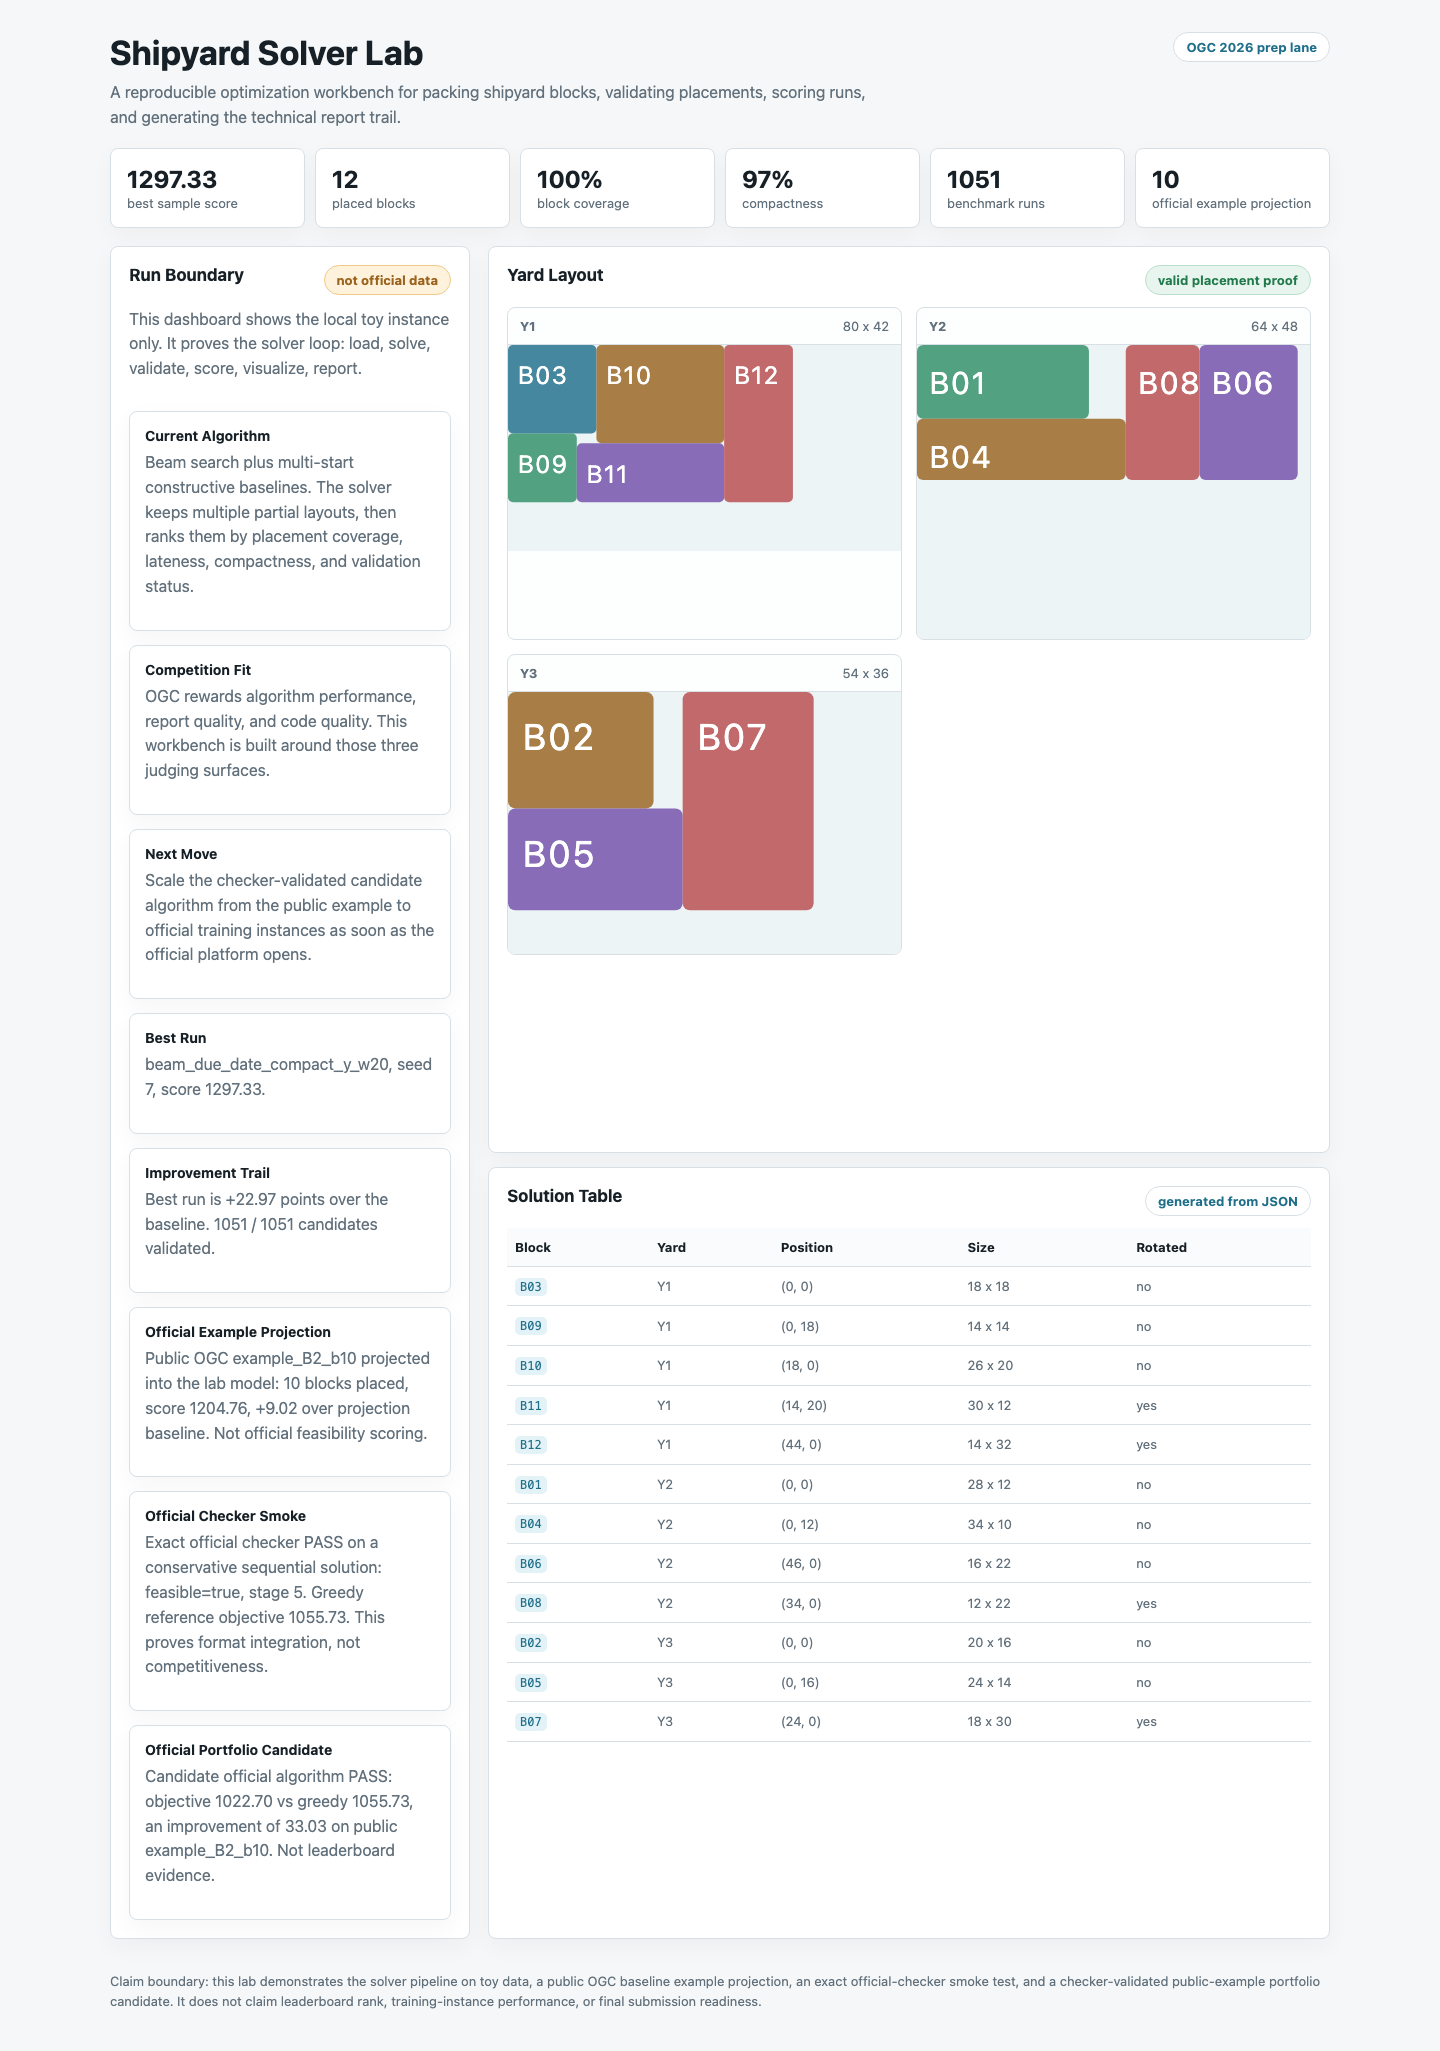
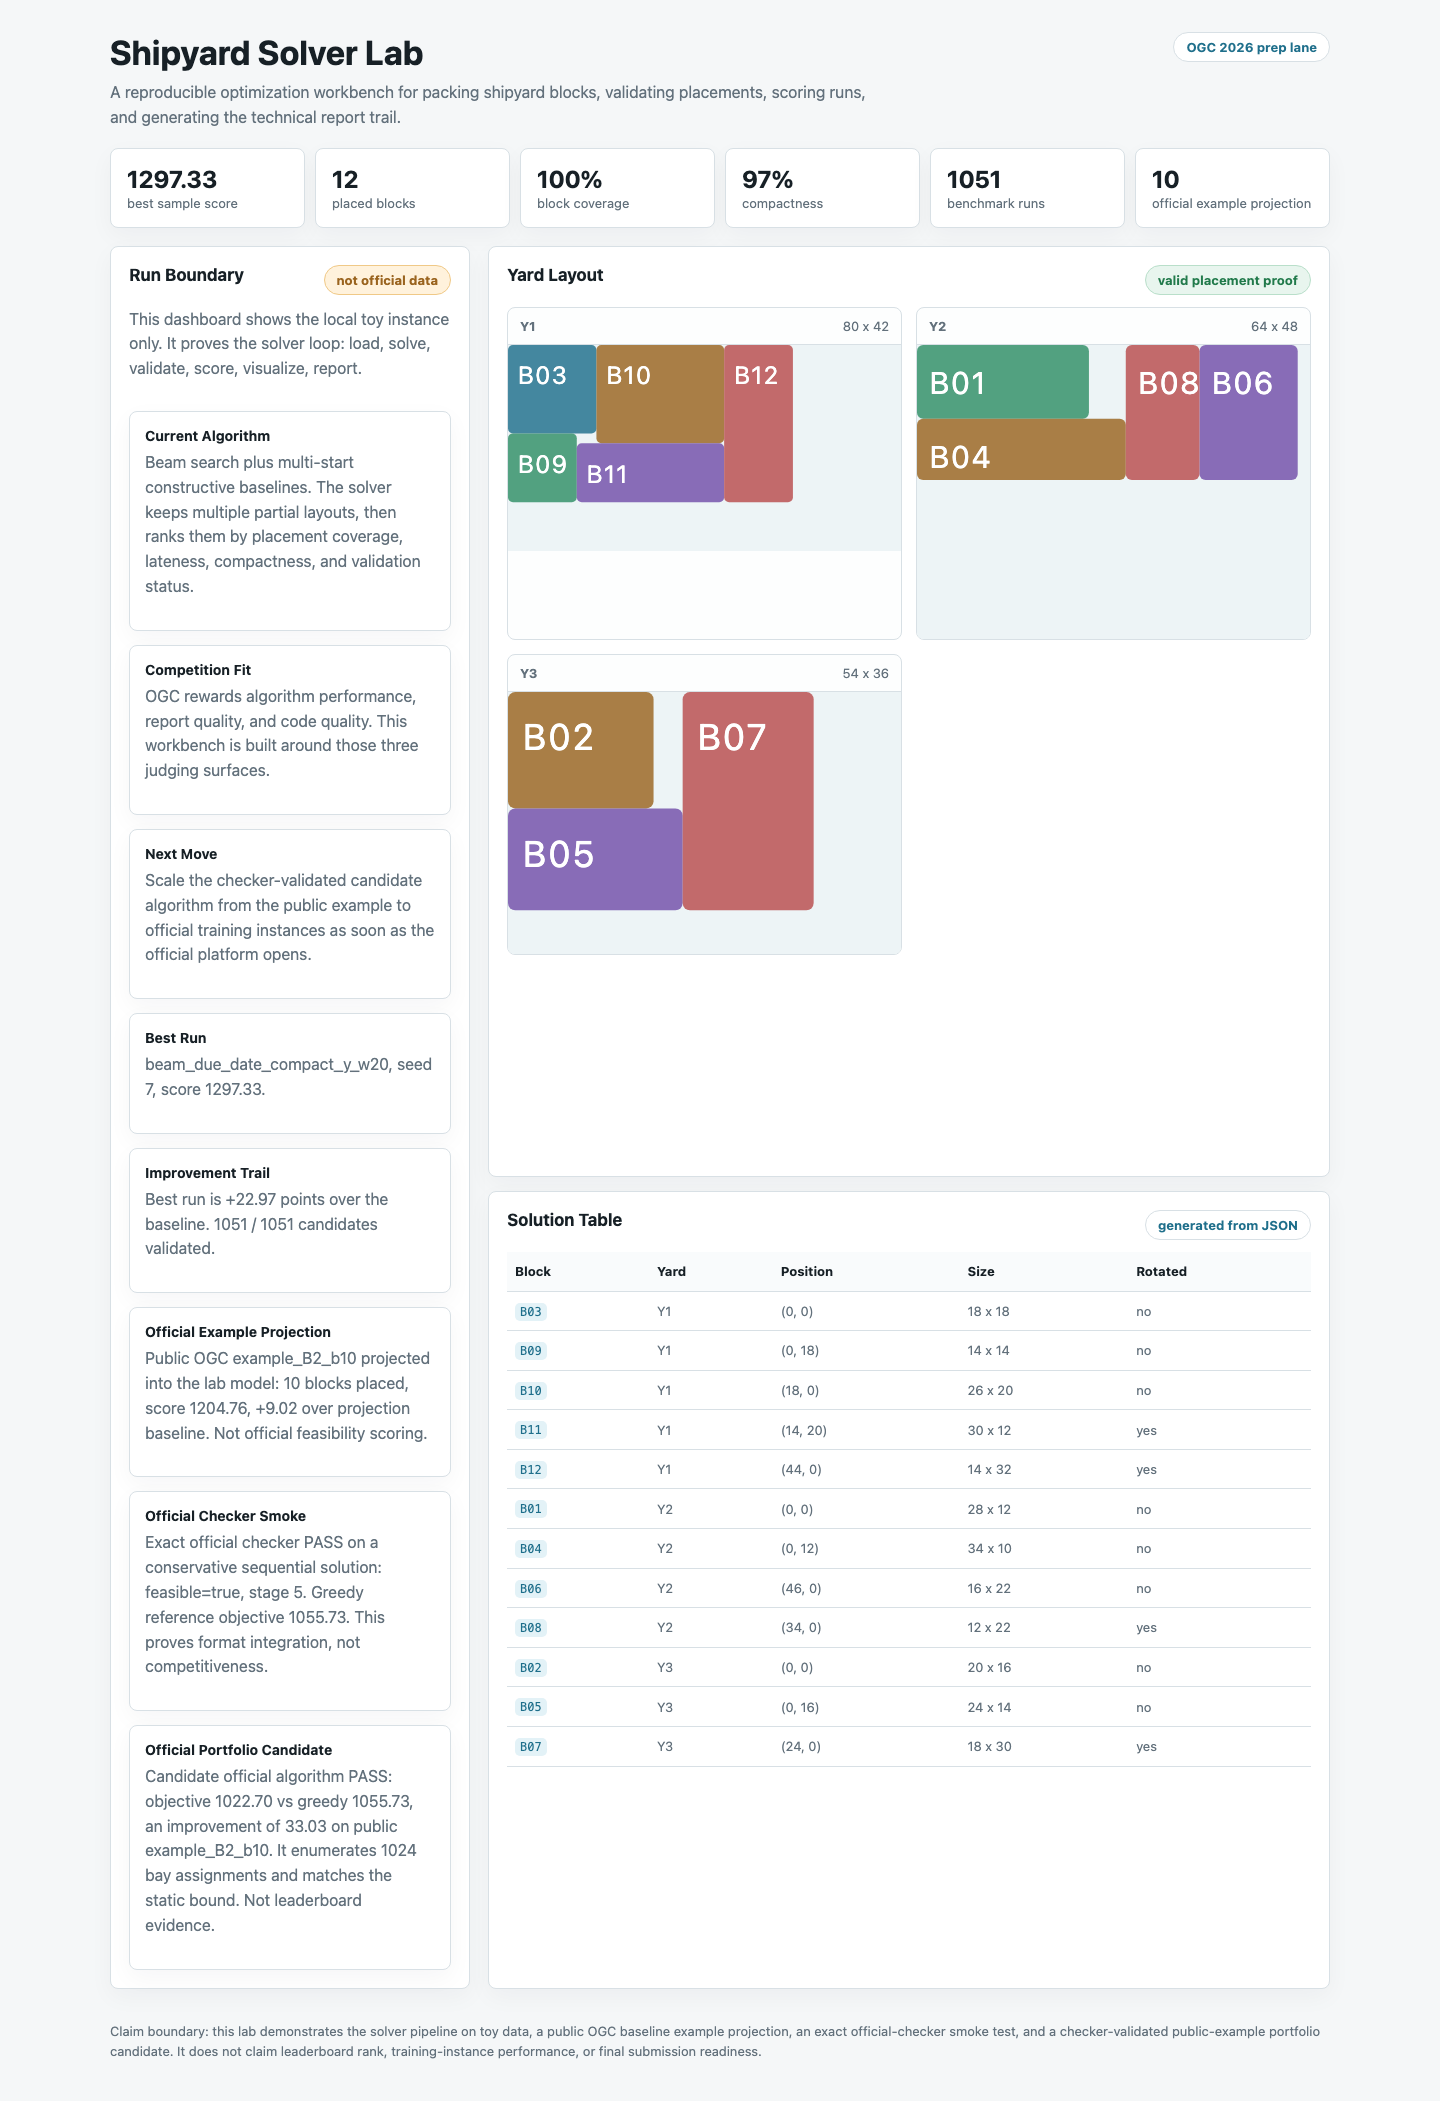
Add official portfolio static-bound proof

diff --git a/index.html b/index.html
@@ -248,7 +248,7 @@
       document.querySelector('#officialCheckerText').textContent =
         `Exact official checker PASS on a conservative sequential solution: feasible=${officialChecker.simple_sequential.feasible}, stage ${officialChecker.simple_sequential.stage}. Greedy reference objective ${officialChecker.official_greedy_reference.objective.toFixed(2)}. This proves format integration, not competitiveness.`;
       document.querySelector('#officialPortfolioText').textContent =
-        `Candidate official algorithm PASS: objective ${officialPortfolio.official_portfolio.objective.toFixed(2)} vs greedy ${officialPortfolio.official_greedy_reference.objective.toFixed(2)}, an improvement of ${officialPortfolio.objective_improvement.toFixed(2)} on public example_B2_b10. Not leaderboard evidence.`;
+        `Candidate official algorithm PASS: objective ${officialPortfolio.official_portfolio.objective.toFixed(2)} vs greedy ${officialPortfolio.official_greedy_reference.objective.toFixed(2)}, an improvement of ${officialPortfolio.objective_improvement.toFixed(2)} on public example_B2_b10. It enumerates ${officialPortfolio.assignment_search.candidate_count} bay assignments and matches the static bound. Not leaderboard evidence.`;
     }
 
     function renderYards(instance, solution) {

diff --git a/scripts/run_official_portfolio_smoke.py b/scripts/run_official_portfolio_smoke.py
@@ -39,6 +39,7 @@ def write_report(payload: dict) -> None:
     portfolio = payload["official_portfolio"]
     greedy = payload["official_greedy_reference"]
     delta = payload["objective_delta_vs_greedy"]
+    assignment = payload["assignment_search"]
     REPORT_PATH.write_text(
         "\n".join(
             [
@@ -71,10 +72,18 @@ def write_report(payload: dict) -> None:
                 f"- Objective delta vs greedy: {delta}",
                 f"- Improvement: {payload['objective_improvement']}",
                 "",
+                "## Assignment Search Proof",
+                "",
+                f"- Candidate assignments evaluated: {assignment['candidate_count']}",
+                f"- Exhaustive for this example: {assignment['exhaustive']}",
+                f"- Best static assignment objective: {assignment['best_static_objective']}",
+                f"- Portfolio matches static bound: {assignment['portfolio_matches_static_bound']}",
+                "",
                 "## Boundary",
                 "",
                 "This is an official-example smoke test, not leaderboard evidence.",
                 "It proves that the repository now contains a checker-validated official-format algorithm candidate that improves over the public greedy reference on example_B2_b10.",
+                "The static-bound statement is only for this small public example, where all bay assignments are enumerable.",
                 "",
             ]
         ),
@@ -83,7 +92,7 @@ def write_report(payload: dict) -> None:
 
 
 def normalized_log_head(text: str) -> list[str]:
-    return [re.sub(r"\\s+\\d+\\.\\d+s$", "  <elapsed>", line) for line in text.splitlines()[:14]]
+    return [re.sub(r"\s+\d+\.\d+s$", "  <elapsed>", line) for line in text.splitlines()[:14]]
 
 
 def main() -> None:
@@ -107,6 +116,12 @@ def main() -> None:
             raise SystemExit(json.dumps(greedy_result, indent=2))
 
         module = load_myalgorithm()
+        candidate_assignments = module._candidate_assignments(prob_info, greedy_solution)
+        static_scores = [module._static_assignment_score(prob_info, item) for item in candidate_assignments]
+        best_static = min(static_scores)
+        exhaustive_count = len(prob_info["bays"]) ** len(prob_info["blocks"])
+        exhaustive = len(candidate_assignments) == exhaustive_count
+
         candidate_solution = module.algorithm(prob_info, timelimit=10)
         candidate_result = check_feasibility(prob_info, candidate_solution)
         if not candidate_result.get("feasible"):
@@ -126,6 +141,17 @@ def main() -> None:
             "official_greedy_reference": greedy_result,
             "objective_delta_vs_greedy": round(delta, 6),
             "objective_improvement": round(-delta, 6),
+            "assignment_search": {
+                "candidate_count": len(candidate_assignments),
+                "exhaustive": exhaustive,
+                "exhaustive_count": exhaustive_count,
+                "best_static_objective": round(best_static, 6),
+                "portfolio_matches_static_bound": (
+                    exhaustive
+                    and abs(candidate_result["objective"] - best_static) < 1e-6
+                    and candidate_result["obj1"] == 0
+                ),
+            },
             "greedy_log_head": normalized_log_head(greedy_log.getvalue()),
         }
 
@@ -138,6 +164,8 @@ def main() -> None:
     print(f"portfolio_objective={candidate_result['objective']:.6f}")
     print(f"greedy_objective={greedy_result['objective']:.6f}")
     print(f"objective_improvement={payload['objective_improvement']:.6f}")
+    print(f"assignment_candidates={payload['assignment_search']['candidate_count']}")
+    print(f"portfolio_matches_static_bound={payload['assignment_search']['portfolio_matches_static_bound']}")
     print(f"report={REPORT_PATH.relative_to(ROOT)}")
 
 

diff --git a/scripts/verify_solver.py b/scripts/verify_solver.py
@@ -64,6 +64,8 @@ def main() -> None:
         raise SystemExit("official portfolio candidate is not feasible")
     if portfolio["objective_improvement"] <= 0:
         raise SystemExit("official portfolio candidate did not improve the greedy reference")
+    if not portfolio["assignment_search"]["portfolio_matches_static_bound"]:
+        raise SystemExit("official portfolio candidate does not match the public-example static assignment bound")
     if "not leaderboard evidence" not in portfolio_report_path.read_text():
         raise SystemExit("official portfolio report missing claim boundary")
 
@@ -85,6 +87,7 @@ def main() -> None:
     print(f"official_checker_objective={checker['simple_sequential']['objective']}")
     print(f"official_portfolio_objective={portfolio['official_portfolio']['objective']}")
     print(f"official_portfolio_improvement={portfolio['objective_improvement']}")
+    print(f"official_portfolio_matches_static_bound={portfolio['assignment_search']['portfolio_matches_static_bound']}")
 
 
 if __name__ == "__main__":

diff --git a/scripts/run_official_checker_smoke.py b/scripts/run_official_checker_smoke.py
@@ -138,7 +138,7 @@ def write_report(payload: dict) -> None:
 
 
 def normalized_log_head(text: str) -> list[str]:
-    return [re.sub(r"\\s+\\d+\\.\\d+s$", "  <elapsed>", line) for line in text.splitlines()[:14]]
+    return [re.sub(r"\s+\d+\.\d+s$", "  <elapsed>", line) for line in text.splitlines()[:14]]
 
 
 def main() -> None:

diff --git a/SUBMISSION_PACKAGE.md b/SUBMISSION_PACKAGE.md
@@ -34,7 +34,7 @@ After checking the official OGC site, I also added an official-example projectio
 
 I also added an exact official-checker smoke test. It builds a conservative official `operations` solution, runs the public OGC feasibility checker, and verifies `feasible=True` at stage 5. The objective is intentionally poor because only one block is present at a time. That is a feature, not a claim: it proves the submission format and checker integration before optimizing.
 
-The latest step replaces that placeholder with a real candidate official algorithm in `official_submission/myalgorithm.py`. It runs the public greedy baseline, then searches bay-assignment candidates and keeps the best official-checker-feasible solution. On the public `example_B2_b10` instance, the candidate improves the official checker objective from 1055.73 to 1022.70, a 33.03 point improvement over the public greedy reference. This is not leaderboard evidence, but it is no longer just a format smoke test: it is a working, checker-validated optimization loop on the public example.
+The latest step replaces that placeholder with a real candidate official algorithm in `official_submission/myalgorithm.py`. It runs the public greedy baseline, then searches bay-assignment candidates and keeps the best official-checker-feasible solution. On the public `example_B2_b10` instance, the candidate improves the official checker objective from 1055.73 to 1022.70, a 33.03 point improvement over the public greedy reference. Because the public example has only 10 blocks and 2 bays, the smoke test enumerates all 1,024 bay assignments and verifies that the candidate matches the static assignment lower bound. This is not leaderboard evidence, but it is no longer just a format smoke test: it is a working, checker-validated optimization loop on the public example.
 
 The browser dashboard reads generated JSON artifacts and visualizes the best solution. It also displays the run boundary, benchmark count, baseline improvement, best solver name, and placement table. The generated technical report records the instance, solver parameters, metrics, placements, and next algorithm steps.
 
@@ -92,4 +92,6 @@ portfolio_feasible=True
 portfolio_objective=1022.698826
 greedy_objective=1055.727896
 objective_improvement=33.029071
+assignment_candidates=1024
+portfolio_matches_static_bound=True
 ```

diff --git a/submission/devpost-draft.md b/submission/devpost-draft.md
@@ -38,7 +38,7 @@ After checking the official OGC site, I added a schema-ingestion smoke test agai
 
 I also added an exact official-checker smoke test. It creates a conservative official `operations` solution and runs the public OGC feasibility checker. The smoke solution passes (`feasible=True`, stage 5), but its objective is intentionally poor because only one block is present at a time. The point is to prove the submission format and checker integration before replacing the placeholder with a stronger official-format algorithm.
 
-The newest build includes that stronger first step: `official_submission/myalgorithm.py`, a candidate official algorithm wrapper. It runs the public greedy reference, searches bay-assignment candidates, checks each candidate with the official feasibility checker, and keeps the best feasible solution. On the public `example_B2_b10` instance, it improves the objective from 1055.73 to 1022.70, a 33.03 point improvement over the public greedy reference. This is still not leaderboard evidence, but it proves a real checker-validated optimization loop on the official public example.
+The newest build includes that stronger first step: `official_submission/myalgorithm.py`, a candidate official algorithm wrapper. It runs the public greedy reference, searches bay-assignment candidates, checks each candidate with the official feasibility checker, and keeps the best feasible solution. On the public `example_B2_b10` instance, it improves the objective from 1055.73 to 1022.70, a 33.03 point improvement over the public greedy reference. Because this public example is small, the smoke test enumerates all 1,024 bay assignments and verifies that the candidate matches the static assignment lower bound while staying official-checker feasible. This is still not leaderboard evidence, but it proves a real checker-validated optimization loop on the official public example.
 
 ## Claim Boundary
 

diff --git a/README.md b/README.md
@@ -107,9 +107,11 @@ portfolio_feasible=True
 portfolio_objective=1022.698826
 greedy_objective=1055.727896
 objective_improvement=33.029071
+assignment_candidates=1024
+portfolio_matches_static_bound=True
 ```
 
-This uses the public OGC baseline example and the official feasibility checker. It is not leaderboard evidence, but it proves the repository now contains a checker-validated official-format algorithm candidate that improves over the public greedy reference on `example_B2_b10`.
+This uses the public OGC baseline example and the official feasibility checker. It is not leaderboard evidence, but it proves the repository now contains a checker-validated official-format algorithm candidate that improves over the public greedy reference on `example_B2_b10`. Because this public example has only 10 blocks and 2 bays, the smoke test also enumerates all 1,024 bay assignments and verifies that the candidate matches the static assignment lower bound for the example.
 
 ## What It Does Not Claim
 

diff --git a/docs/OFFICIAL_READINESS.md b/docs/OFFICIAL_READINESS.md
@@ -93,9 +93,11 @@ portfolio_feasible=True
 portfolio_objective=1022.698826
 greedy_objective=1055.727896
 objective_improvement=33.029071
+assignment_candidates=1024
+portfolio_matches_static_bound=True
 ```
 
-This is measured only on the public `example_B2_b10` example. It is not leaderboard evidence, but it proves the exact official algorithm interface, `operations` format, checker integration, and a real objective improvement over the public greedy reference on the available example.
+This is measured only on the public `example_B2_b10` example. It is not leaderboard evidence, but it proves the exact official algorithm interface, `operations` format, checker integration, and a real objective improvement over the public greedy reference on the available example. For this small public example, all 1,024 bay assignments are enumerable; the candidate matches the static assignment lower bound while remaining official-checker feasible.
 
 ## Boundary
 

diff --git a/outputs/official_portfolio_report.md b/outputs/official_portfolio_report.md
@@ -27,7 +27,15 @@ This report uses the public OGC 2026 baseline package and official feasibility c
 - Objective delta vs greedy: -33.029071
 - Improvement: 33.029071
 
+## Assignment Search Proof
+
+- Candidate assignments evaluated: 1024
+- Exhaustive for this example: True
+- Best static assignment objective: 1022.698826
+- Portfolio matches static bound: True
+
 ## Boundary
 
 This is an official-example smoke test, not leaderboard evidence.
 It proves that the repository now contains a checker-validated official-format algorithm candidate that improves over the public greedy reference on example_B2_b10.
+The static-bound statement is only for this small public example, where all bay assignments are enumerable.
